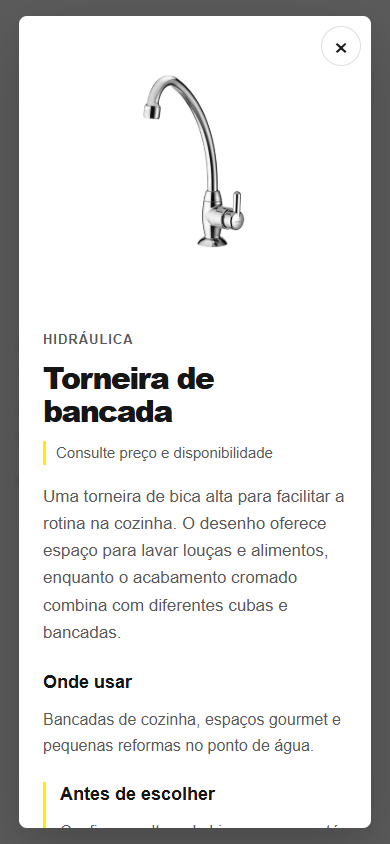
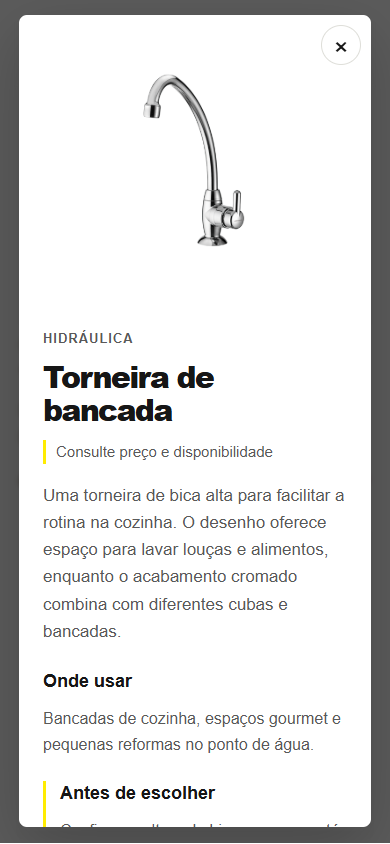
fix: remove avisos e links de imagens de referencia

diff --git a/eletrosevero/index.html b/eletrosevero/index.html
@@ -60,7 +60,7 @@
           <div class="results-heading"><p id="results-count" role="status" aria-live="polite" aria-atomic="true"></p><span>Conheça os detalhes de cada item</span></div>
           <div class="product-grid" id="product-grid"></div>
           <div class="empty-state" id="empty-state" hidden><span aria-hidden="true">⌕</span><h3>Nenhum produto encontrado</h3><p>Tente outro nome ou escolha um departamento diferente.</p><button class="button button-dark" id="reset-filters">Ver todos os produtos</button></div>
-          <p class="catalog-disclaimer">Fotos de referência. Consulte a equipe para confirmar modelos, preços e disponibilidade.</p>
+          <p class="catalog-disclaimer">Consulte a equipe para confirmar modelos, preços e disponibilidade.</p>
           <noscript>Ative o JavaScript para explorar o catálogo. Para informações sobre produtos, ligue para (18) 99801-3291.</noscript>
         </div>
       </div>
@@ -87,7 +87,6 @@
           <div class="dialog-technical"><h3>Ficha técnica <span class="spec-note">Dados de exemplo</span></h3><ul id="dialog-specs"></ul></div>
         </div>
         <div class="dialog-actions">
-          <a id="dialog-source" class="source-link" target="_blank" rel="noopener noreferrer">Ver imagem de referência ↗</a>
           <a class="button button-dark" data-whatsapp href="https://wa.me/5518998013291">Falar com a loja <span aria-hidden="true">↗</span></a>
         </div>
       </div>

diff --git a/eletrosevero/app.js b/eletrosevero/app.js
@@ -67,12 +67,11 @@ function openProduct(product, trigger) {
   document.querySelector('#dialog-category').textContent = categoryName(product.category);
   const image = document.querySelector('#dialog-image');
   image.src = product.image;
-  image.alt = `Foto de referência: ${product.name}`;
+  image.alt = product.name;
   const status = document.querySelector('#dialog-status');
   status.textContent = 'Consulte preço e disponibilidade';
   document.querySelector('#dialog-application').textContent = product.application;
   document.querySelector('#dialog-guidance').textContent = product.guidance;
-  document.querySelector('#dialog-source').href = product.source;
   document.querySelector('.dialog-image').className = 'dialog-image ' + product.imageClass;
   dialog.querySelector('[data-whatsapp]').href = 'https://wa.me/5518998013291?text=' + encodeURIComponent('Olá! Gostaria de saber mais sobre ' + product.name + '. Podem me informar modelos, preço e disponibilidade?');
   const specs = document.querySelector('#dialog-specs');
@@ -93,7 +92,7 @@ function productCard(product) {
   if (product.imageClass) visual.classList.add(product.imageClass);
   const img = node('img');
   img.src = product.image;
-  img.alt = `Foto de referência: ${product.name}`;
+  img.alt = product.name;
   img.width = 320;
   img.height = 300;
   img.loading = 'lazy';

diff --git a/eletrosevero/styles.css b/eletrosevero/styles.css
@@ -1338,8 +1338,7 @@ dialog::backdrop { background:#161616b3; backdrop-filter:blur(3px); }
 .dialog-copy ul { list-style:none; padding:0; margin:0; font-size:15px; }
 .dialog-copy li { display:grid; grid-template-columns:minmax(0,1fr) minmax(0,1.1fr); gap:14px; padding:9px 0; border-bottom:1px solid var(--line); color:var(--muted); }
 .dialog-copy li strong { color:var(--ink); font-weight:600; }
-.dialog-actions { display:flex; align-items:center; justify-content:space-between; gap:20px; margin-top:28px; padding-top:20px; border-top:1px solid var(--line); }
-.source-link { font-size:14px; text-decoration:underline; text-underline-offset:4px; }
+.dialog-actions { display:flex; align-items:center; justify-content:flex-end; gap:20px; margin-top:28px; padding-top:20px; border-top:1px solid var(--line); }
 .dialog-actions .button { flex:none; font-size:16px; }
 .dialog-close { position:sticky; top:10px; float:right; width:40px; height:40px; margin:10px 10px -50px 0; z-index:2; border:1px solid var(--line); border-radius:50%; background:#fff; color:var(--ink); font-size:25px; }
 .dialog-image.photo-window { height:0; padding:0 0 55.82%; }

diff --git a/eletrosevero/docs/VALIDATION.md b/eletrosevero/docs/VALIDATION.md
@@ -16,3 +16,7 @@
 - Abertura reinicia a posição de rolagem; fechamento, Escape e retorno de foco permanecem funcionais.
 - Visite nossas lojas destacado no cabeçalho, apontando para as duas unidades. Visível no celular com menu fechado.
 - Revisados screenshots de modal e início; sem erros de console ou overflow. CSS anterior do modal consolidado para evitar regras conflitantes.
+
+## Limpeza de referências na interface
+
+Links de fonte e avisos de fotos de referência removidos do catálogo e do modal. Texto alternativo descreve somente o produto. Origem das imagens preservada na documentação interna. Consulta de preço/modelos e identificação das fichas fictícias permanecem. Os 13 cenários de navegador passaram novamente; captura do modal revisada.
